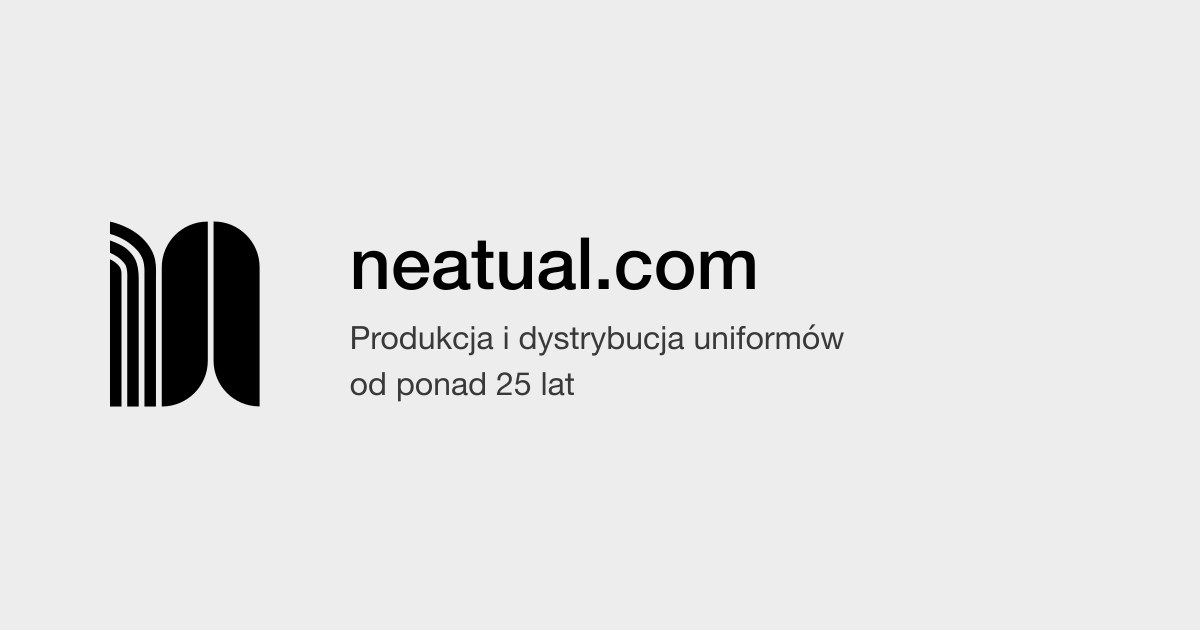
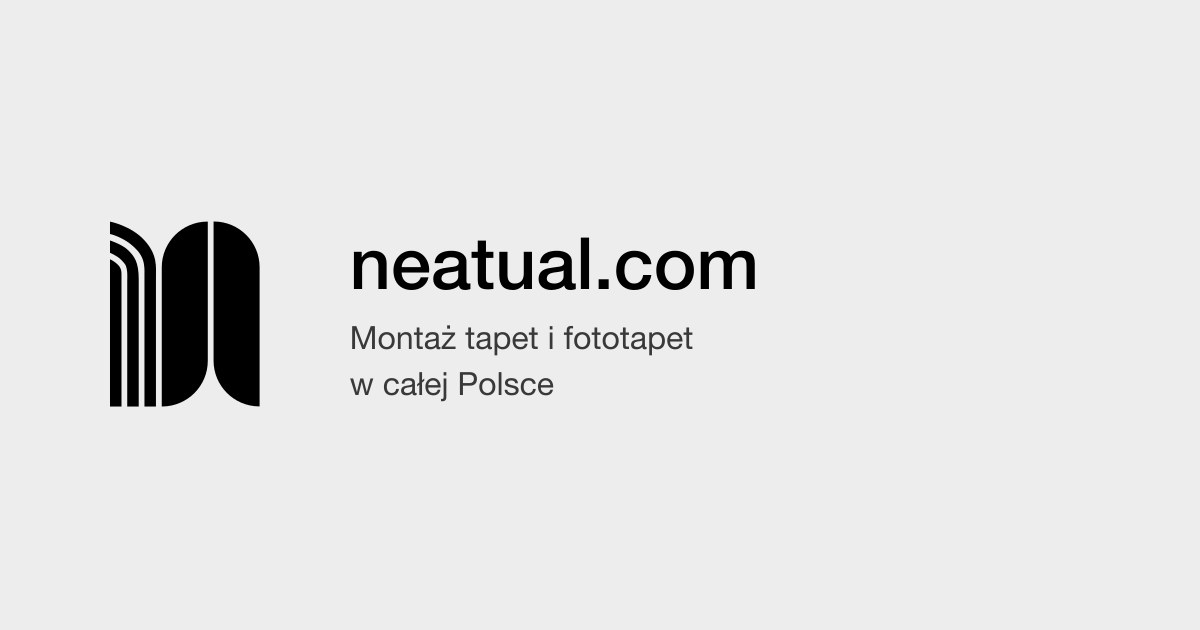
fix(seo): the share card was still advertising the uniform business
public/og-image.jpg — the image every share of this site renders, on every
platform — read:

    neatual.com
    Produkcja i dystrybucja uniformów
    od ponad 25 lat

Neatual hangs wallpaper. The copy rewrite in v0.1.0 replaced every title,
heading, body paragraph, alt text and meta description in all three locales,
and missed this, because the text is not copy in a copy file: it is three
<text> elements inside an SVG template in scripts/generate-og-image.mjs, drawn
into a JPEG by `pnpm og:generate` and regenerated on every run of deploy.sh.
Verified still live today at https://neatual.com/og-image.jpg, byte-identical
to the committed file.

So for months the link preview said uniforms and the page behind it said
wallpaper — on precisely the surface a stranger sees before deciding whether to
click.

The 17 August audit looked for exactly this and reported zero matches, and
proposed retiring the standing warning in .claude/CLAUDE.md as having done its
job. It had grepped app/ and sanity/. A script that draws sentences into an
image is not where anyone looks for sentences.

## The fix, and why it is not just new strings

The two lines move to OG_CARD_LINES in app/lib/inlineCopy.js, beside the rest
of the site's copy, and the generator imports them along with BRAND.wordmark.
Copy that lives in a rendering script is copy nobody reviews.

test/stale-copy.spec.js is the part that matters. It git-greps every shipped
[…]

Changed region(s): [[0.2775, 0.5127, 0.7092, 0.6333]]

diff --git a/test/stale-copy.spec.js b/test/stale-copy.spec.js
@@ -1,0 +1,102 @@
+import { execFileSync } from "node:child_process";
+
+import { describe, it, expect } from "vitest";
+
+import { OG_CARD_LINES } from "../app/lib/inlineCopy.js";
+
+/**
+ * Neatual used to make uniforms. Everything user-facing was rewritten for the
+ * wallpaper business in v0.1.0 — titles, headings, body copy, alt text, meta
+ * descriptions, in all three locales — and `.claude/CLAUDE.md` has carried a
+ * standing warning ever since that any copy mentioning uniforms or 25 years is
+ * stale.
+ *
+ * The 17 August audit grepped for it and reported zero matches, and proposed
+ * retiring the warning as having done its job. It had searched `app/` and
+ * `sanity/`. The Open Graph card is drawn by a script in `scripts/`, and it had
+ * been rendering "Produkcja i dystrybucja uniformów / od ponad 25 lat" into
+ * public/og-image.jpg on every deploy the whole time — so every share of the
+ * site on every platform advertised a business Neatual is not in, for months,
+ * while the page behind the link said wallpaper.
+ *
+ * A warning in a markdown file is not a guard, and a grep run once by hand is
+ * not either. This is the guard. It searches everywhere a sentence can hide,
+ * not just where sentences are expected.
+ */
+
+/**
+ * Only what ships. `docs/` records what was observed and correcting an audit
+ * would falsify it; `.claude/` is agent tooling that names the old business in
+ * order to forbid it, and one vendored skill mentions "uniform lists" about
+ * Flutter. None of those reaches a visitor.
+ */
+const SHIPPED = [
+  "app",
+  "scripts",
+  "sanity",
+  "public",
+  "server.js",
+  "README.md",
+];
+
+/**
+ * The two files that explain the fix, and so necessarily quote what was wrong.
+ * Kept as an explicit list rather than a pattern: a broad exemption here is how
+ * a guard quietly stops guarding.
+ */
+const ALLOWED = [
+  "app/lib/inlineCopy.js", // the comment on OG_CARD_LINES
+  "scripts/generate-og-image.mjs", // the comment on why the copy moved out
+];
+
+/**
+ * git grep rather than a filesystem walk: it respects .gitignore for free, so
+ * node_modules and build output cannot produce a false positive, and it only
+ * ever sees files that are actually committed.
+ */
+function search(pattern) {
+  let out = "";
+  try {
+    out = execFileSync("git", ["grep", "-rniI", pattern, "--", ...SHIPPED], {
+      encoding: "utf8",
+    });
+  } catch (error) {
+    // git grep exits 1 with no output when there are no matches.
+    if (error.status === 1 && !error.stdout) return [];
+    throw error;
+  }
+  return out
+    .split("\n")
+    .filter(Boolean)
+    .filter(
+      (line) => !ALLOWED.some((allowed) => line.startsWith(`${allowed}:`))
+    );
+}
+
+describe("the previous business does not appear in anything that ships", () => {
+  it.each([
+    ["uniforms", "uniform"],
+    ["the 25-year claim (Polish)", "25 lat"],
+    ["the 25-year claim (English)", "25 years"],
+  ])("no reference to %s", (_label, pattern) => {
+    const hits = search(pattern);
+    expect(hits, `\n${hits.join("\n")}\n`).toEqual([]);
+  });
+});
+
+describe("the Open Graph card", () => {
+  it("says what the company actually does", () => {
+    expect(OG_CARD_LINES.join(" ")).toMatch(/tapet/i);
+  });
+
+  it("makes no claim about how long it has been trading", () => {
+    // The owner gave three facts and a duration was not one of them.
+    expect(OG_CARD_LINES.join(" ")).not.toMatch(/\d+\s*(lat|years)/i);
+  });
+
+  it("fits the card — two short lines beside a 150px logo at 1200px wide", () => {
+    expect(OG_CARD_LINES).toHaveLength(2);
+    for (const line of OG_CARD_LINES)
+      expect(line.length).toBeLessThanOrEqual(40);
+  });
+});

diff --git a/app/components/ProductImage.spec.jsx b/app/components/ProductImage.spec.jsx
@@ -11,7 +11,7 @@ describe("ProductImage", () => {
     const { container } = render(
       <ProductImage
         base={BASE}
-        alt="Uniform"
+        alt="Tapeta"
         width={400}
         height={400}
         sizes="120px"
@@ -32,7 +32,7 @@ describe("ProductImage", () => {
     const { container } = render(
       <ProductImage
         base={BASE}
-        alt="Uniform"
+        alt="Tapeta"
         width={400}
         height={400}
         sizes="120px"
@@ -49,7 +49,7 @@ describe("ProductImage", () => {
     const { container } = render(
       <ProductImage
         base={BASE}
-        alt="Uniform"
+        alt="Tapeta"
         width={400}
         height={400}
         sizes="120px"
@@ -63,7 +63,7 @@ describe("ProductImage", () => {
     render(
       <ProductImage
         base={BASE}
-        alt="Uniform"
+        alt="Tapeta"
         width={400}
         height={400}
         sizes="120px"
@@ -79,7 +79,7 @@ describe("ProductImage", () => {
     const { unmount } = render(
       <ProductImage
         base={BASE}
-        alt="Uniform"
+        alt="Tapeta"
         width={400}
         height={400}
         sizes="120px"
@@ -91,7 +91,7 @@ describe("ProductImage", () => {
     render(
       <ProductImage
         base={BASE}
-        alt="Uniform"
+        alt="Tapeta"
         width={400}
         height={400}
         sizes="120px"
@@ -107,7 +107,7 @@ describe("ProductImage", () => {
       <>
         <ProductImage
           base={BASE}
-          alt="Uniform wzór nr 2"
+          alt="Tapeta wzór nr 2"
           width={400}
           height={400}
           sizes="120px"

diff --git a/app/lib/inlineCopy.js b/app/lib/inlineCopy.js
@@ -19,6 +19,24 @@ export const BRAND = {
   name: "neatual",
 };
 
+/**
+ * The two lines under the wordmark on the Open Graph card,
+ * public/og-image.jpg, rendered by scripts/generate-og-image.mjs.
+ *
+ * Here rather than in the generator because the generator is where they were
+ * missed. The card read "Produkcja i dystrybucja uniformów / od ponad 25 lat"
+ * from the day it was created until 28 August 2026 — the uniform business,
+ * still being advertised by every share of the site on every platform, months
+ * after all of the on-page copy had been rewritten. The rewrite swept app/ and
+ * the CMS; a script that draws text into a JPEG was not somewhere anyone
+ * thought to look for sentences.
+ *
+ * Polish only, deliberately: og:image is one URL for all three locales.
+ *
+ * test/stale-copy.spec.js fails if the old business resurfaces anywhere.
+ */
+export const OG_CARD_LINES = ["Montaż tapet i fototapet", "w całej Polsce"];
+
 /** The skip-to-content link, previously an inline ternary in app/root.jsx. */
 export const SKIP_LINK = {
   pl: "Przejdź do treści",

diff --git a/.claude/CLAUDE.md b/.claude/CLAUDE.md
@@ -2,7 +2,9 @@
 
 ## Project Overview
 
-Neatual.com is a company website for Neatual, a Polish wallpaper-hanging company working across Poland. Installation only — the client or their designer supplies the wallpaper. (It previously made uniforms; any copy mentioning uniforms or 25 years is stale.) Built with **React Router 7** and **Tailwind CSS**.
+Neatual.com is a company website for Neatual, a Polish wallpaper-hanging company working across Poland. Installation only — the client or their designer supplies the wallpaper. Built with **React Router 7** and **Tailwind CSS**.
+
+It previously made uniforms. Any copy mentioning uniforms or 25 years is stale, and `test/stale-copy.spec.js` now fails on it across every shipped path. That guard replaced this warning rather than the warning being retired: the 17 August audit proposed dropping it as having done its job, having grepped `app/` and `sanity/` — while `scripts/generate-og-image.mjs` was still rendering "Produkcja i dystrybucja uniformów / od ponad 25 lat" into the Open Graph card on every build.
 
 ## Tech Stack
 

diff --git a/AGENTS.md b/AGENTS.md
@@ -4,6 +4,8 @@
 
 Neatual.com is a company website for Neatual, a Polish wallpaper-hanging company working across Poland. Installation only — the client or their designer supplies the wallpaper. Built with **React Router 7** and **Tailwind CSS**.
 
+It previously made uniforms. Any copy mentioning uniforms or 25 years is stale, and `test/stale-copy.spec.js` fails on it across every shipped path.
+
 ## Tech Stack
 
 - **Framework**: React Router 7, framework mode (migrated from Remix 2)
